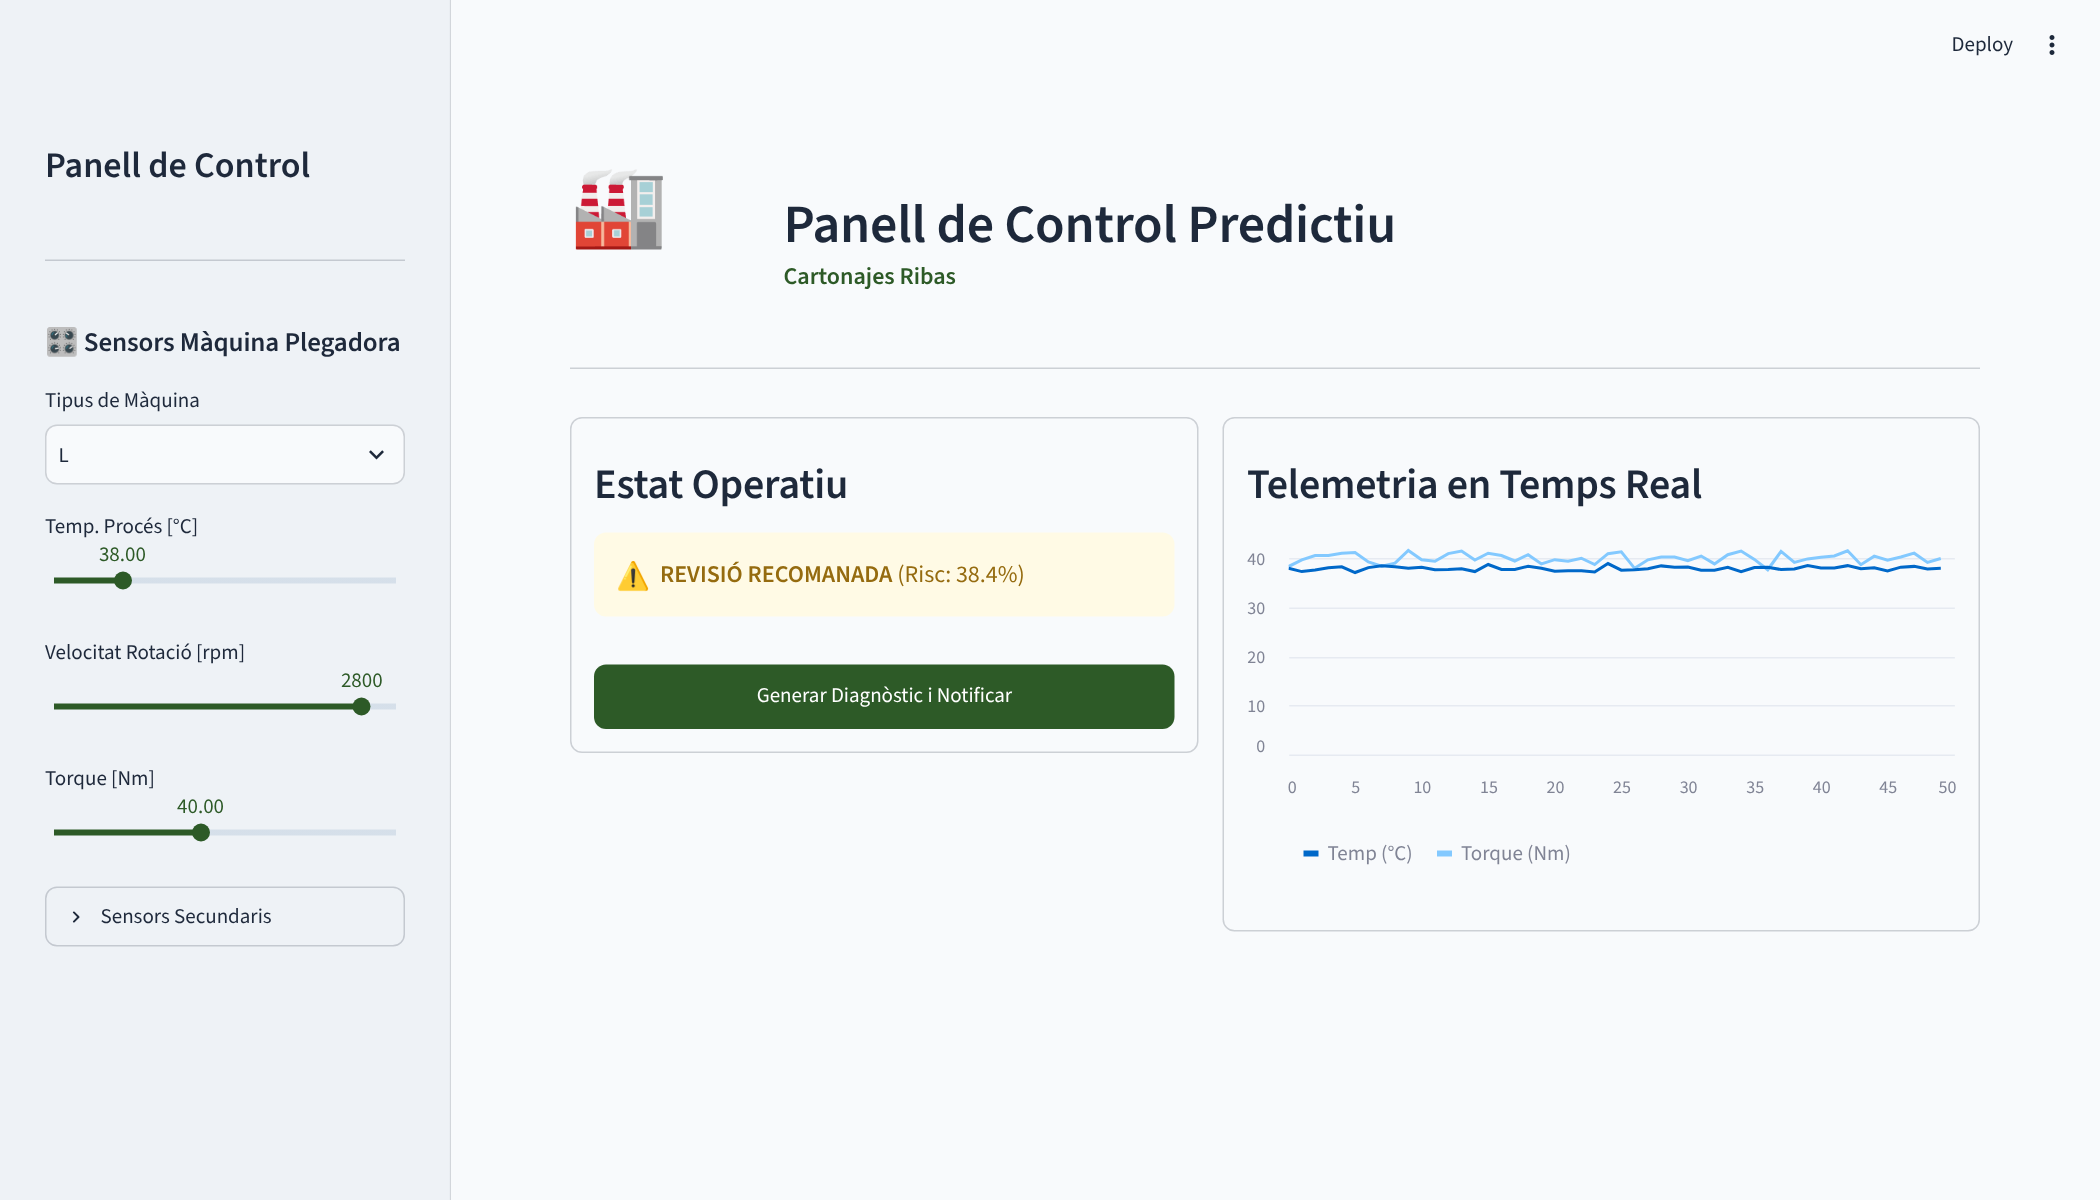
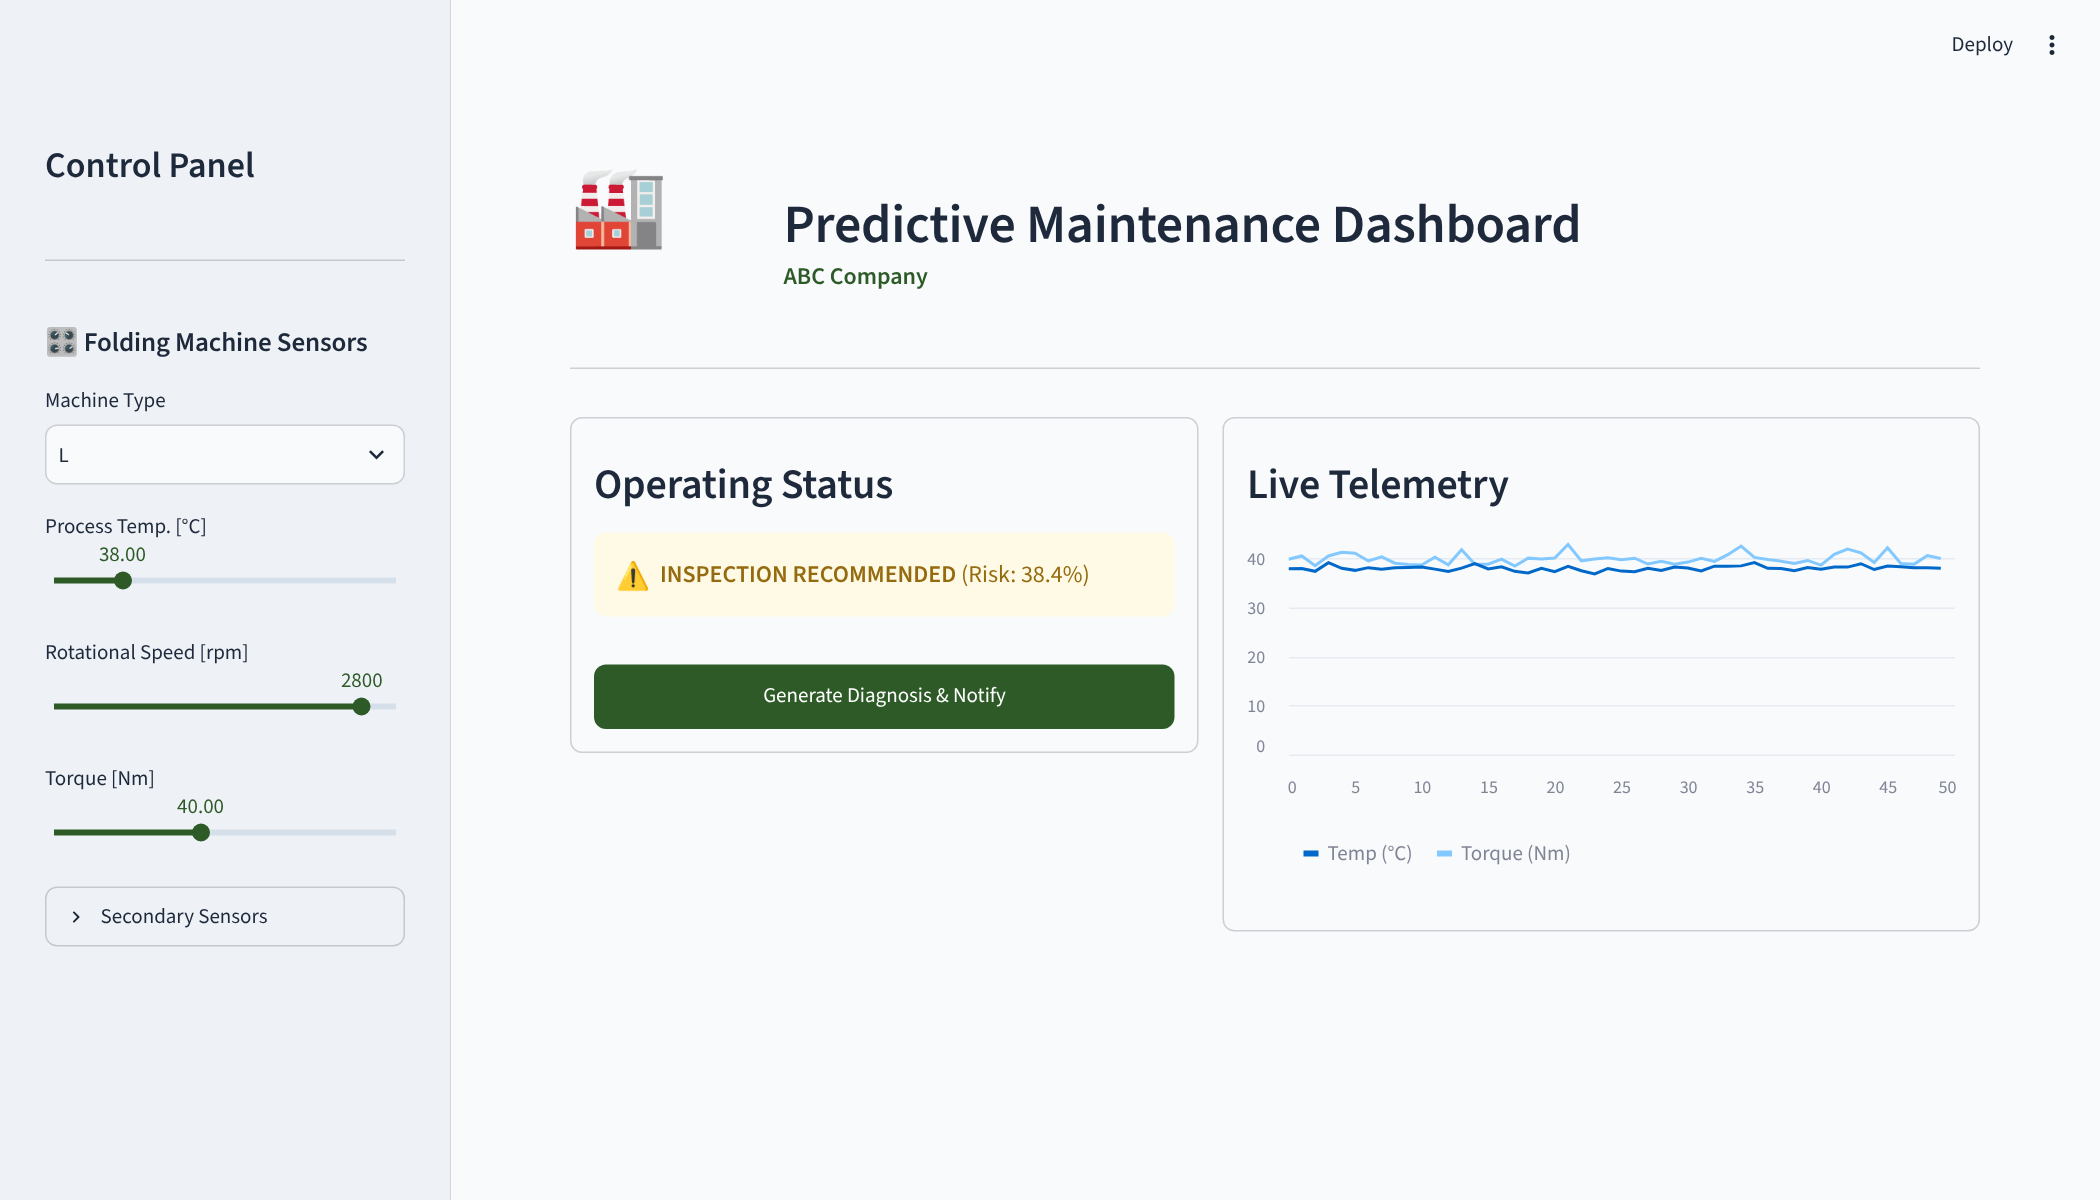
Update README and translate dashboard to English

diff --git a/app.py b/app.py
@@ -35,7 +35,7 @@ def get_setting(name: str) -> str | None:
 GROQ_API_KEY = get_setting("GROQ_API_KEY")
 N8N_WEBHOOK_URL = get_setting("N8N_WEBHOOK_URL")
 
-st.set_page_config(page_title="Control Predictiu | Cartonajes Ribas", layout="wide")
+st.set_page_config(page_title="Predictive Maintenance | ABC Company", layout="wide")
 
 st.markdown("""
     <style>
@@ -86,25 +86,25 @@ col_logo, col_titol = st.columns([1, 6])
 with col_logo:
     st.markdown("<div style='font-size: 52px; line-height: 1;'>🏭</div>", unsafe_allow_html=True)
 with col_titol:
-    st.markdown("<h2 style='margin-bottom: 0px; padding-bottom: 0px;'>Panell de Control Predictiu</h2>", unsafe_allow_html=True)
-    st.markdown("<p style='color: #2D5A27; font-weight: 600;'>Cartonajes Ribas</p>", unsafe_allow_html=True)
+    st.markdown("<h2 style='margin-bottom: 0px; padding-bottom: 0px;'>Predictive Maintenance Dashboard</h2>", unsafe_allow_html=True)
+    st.markdown("<p style='color: #2D5A27; font-weight: 600;'>ABC Company</p>", unsafe_allow_html=True)
 
 st.markdown("---")
 
 # --- SIDEBAR: sensor inputs ---
 with st.sidebar:
-    st.title("Panell de Control")
+    st.title("Control Panel")
     st.markdown("---")
-    st.subheader("🎛 Sensors Màquina Plegadora")
+    st.subheader("🎛 Folding Machine Sensors")
 
-    tipus = st.selectbox("Tipus de Màquina", ["L", "M", "H"])
-    temp_proces = st.slider("Temp. Procés [°C]", 30.0, 70.0, 38.0)
-    rpm = st.slider("Velocitat Rotació [rpm]", 1000, 3000, 2800)
+    tipus = st.selectbox("Machine Type", ["L", "M", "H"])
+    temp_proces = st.slider("Process Temp. [°C]", 30.0, 70.0, 38.0)
+    rpm = st.slider("Rotational Speed [rpm]", 1000, 3000, 2800)
     torque = st.slider("Torque [Nm]", 10.0, 80.0, 40.0)
 
-    with st.expander("Sensors Secundaris"):
-        temp_aire = st.slider("Temp. Aire [°C]", 20.0, 40.0, 25.0)
-        desgast = st.slider("Desgast Eina [min]", 0, 300, 130)
+    with st.expander("Secondary Sensors"):
+        temp_aire = st.slider("Air Temp. [°C]", 20.0, 40.0, 25.0)
+        desgast = st.slider("Tool Wear [min]", 0, 300, 130)
 
 # --- PREDICTION ---
 input_df = pd.DataFrame({
@@ -122,37 +122,37 @@ c1, c2 = st.columns([1, 1.2])
 
 with c1:
     with st.container(border=True):
-        st.subheader("Estat Operatiu")
+        st.subheader("Operating Status")
 
         if prob < 0.3:
-            st.success(f"✅ **SISTEMA ESTABLE** (Risc: {prob:.1%})")
+            st.success(f"✅ **SYSTEM STABLE** (Risk: {prob:.1%})")
         elif prob < 0.7:
-            st.warning(f"⚠ **REVISIÓ RECOMANADA** (Risc: {prob:.1%})")
+            st.warning(f"⚠ **INSPECTION RECOMMENDED** (Risk: {prob:.1%})")
         else:
-            st.error(f"🚨 **ALERTA CRÍTICA** (Risc: {prob:.1%})")
+            st.error(f"🚨 **CRITICAL ALERT** (Risk: {prob:.1%})")
 
         st.write("")
 
-        if st.button("Generar Diagnòstic i Notificar", use_container_width=True):
+        if st.button("Generate Diagnosis & Notify", use_container_width=True):
             client = get_groq_client()
             if client is None:
-                st.error("Falta configurar GROQ_API_KEY (vegeu el README).")
+                st.error("GROQ_API_KEY is not configured (see the README).")
             else:
                 diag = None
-                with st.spinner("Analitzant amb Groq..."):
+                with st.spinner("Analyzing with Groq..."):
                     try:
                         prompt = (
-                            f"La màquina Plegadora té Torque {torque}Nm i Temp {temp_proces}C. "
-                            f"Risc de fallada: {prob*100:.1f}%. Fes un diagnòstic de 2 frases en català."
+                            f"The folding machine has a torque of {torque} Nm and a process temperature of {temp_proces} °C. "
+                            f"Failure risk: {prob*100:.1f}%. Write a 2-sentence diagnosis in English."
                         )
                         res = client.chat.completions.create(
                             messages=[{"role": "user", "content": prompt}],
                             model="llama-3.1-8b-instant",
                         )
                         diag = res.choices[0].message.content
-                        st.info(f"**Assistent IA:** {diag}")
+                        st.info(f"**AI Assistant:** {diag}")
                     except Exception as e:
-                        st.error(f"Error de l'API de Groq: {e}")
+                        st.error(f"Groq API error: {e}")
 
                 # Send the alert to n8n (optional)
                 if diag and N8N_WEBHOOK_URL:
@@ -160,22 +160,22 @@ with c1:
                         requests.post(
                             N8N_WEBHOOK_URL,
                             json={
-                                "maquina_id": "PLEGADORA",
-                                "missatge": diag,
-                                "probabilitat": f"{prob:.1%}",
-                                "alarma": "CRÍTICA" if prob > 0.7 else "INFO",
+                                "machine_id": "FOLDING_MACHINE",
+                                "message": diag,
+                                "probability": f"{prob:.1%}",
+                                "alert_level": "CRITICAL" if prob > 0.7 else "INFO",
                             },
                             timeout=10,
                         ).raise_for_status()
-                        st.toast("Notificació enviada a l'operari!", icon="📩")
+                        st.toast("Notification sent to the operator!", icon="📩")
                     except requests.RequestException as e:
-                        st.warning(f"No s'ha pogut enviar la notificació a n8n: {e}")
+                        st.warning(f"Could not send the notification to n8n: {e}")
                 elif diag:
-                    st.caption("N8N_WEBHOOK_URL no configurat: notificació no enviada.")
+                    st.caption("N8N_WEBHOOK_URL is not set: notification not sent.")
 
 with c2:
     with st.container(border=True):
-        st.subheader("Telemetria en Temps Real")
+        st.subheader("Live Telemetry")
 
         t_data = st.session_state.hist_torque.copy()
         p_data = st.session_state.hist_temp.copy()

diff --git a/README.md b/README.md
@@ -8,6 +8,17 @@ A Streamlit dashboard takes sensor readings from an industrial machine, estimate
 
 ## How it works
 
+```mermaid
+flowchart LR
+    A[Sensor readings] --> B[Streamlit dashboard]
+    B --> C[Random Forest model<br/>failure probability]
+    C --> B
+    B -- "Generate diagnosis" --> D[Groq · Llama 3.1<br/>diagnosis]
+    D --> B
+    B -- webhook --> E[n8n workflow]
+    E --> F[Maintenance operator]
+```
+
 1. The user enters sensor readings: machine type, air and process temperature, rotational speed, torque and tool wear.
 2. The model returns a failure probability and the dashboard shows the status: stable (< 30%), inspection recommended (30–70%) or critical alert (> 70%).
 3. "Generate Diagnosis & Notify" sends the readings and the risk score to the LLM, which writes a two-sentence diagnosis.
@@ -65,7 +76,7 @@ Python, pandas, scikit-learn, matplotlib, seaborn, Streamlit, Groq API (Llama 3.
 ## Running locally
 
 ```bash
-git clone https://github.com/<your-username>/predictive-maintenance-alerts.git
+git clone https://github.com/mireiaacss/predictive-maintenance-alerts.git
 cd predictive-maintenance-alerts
 
 python -m venv .venv
